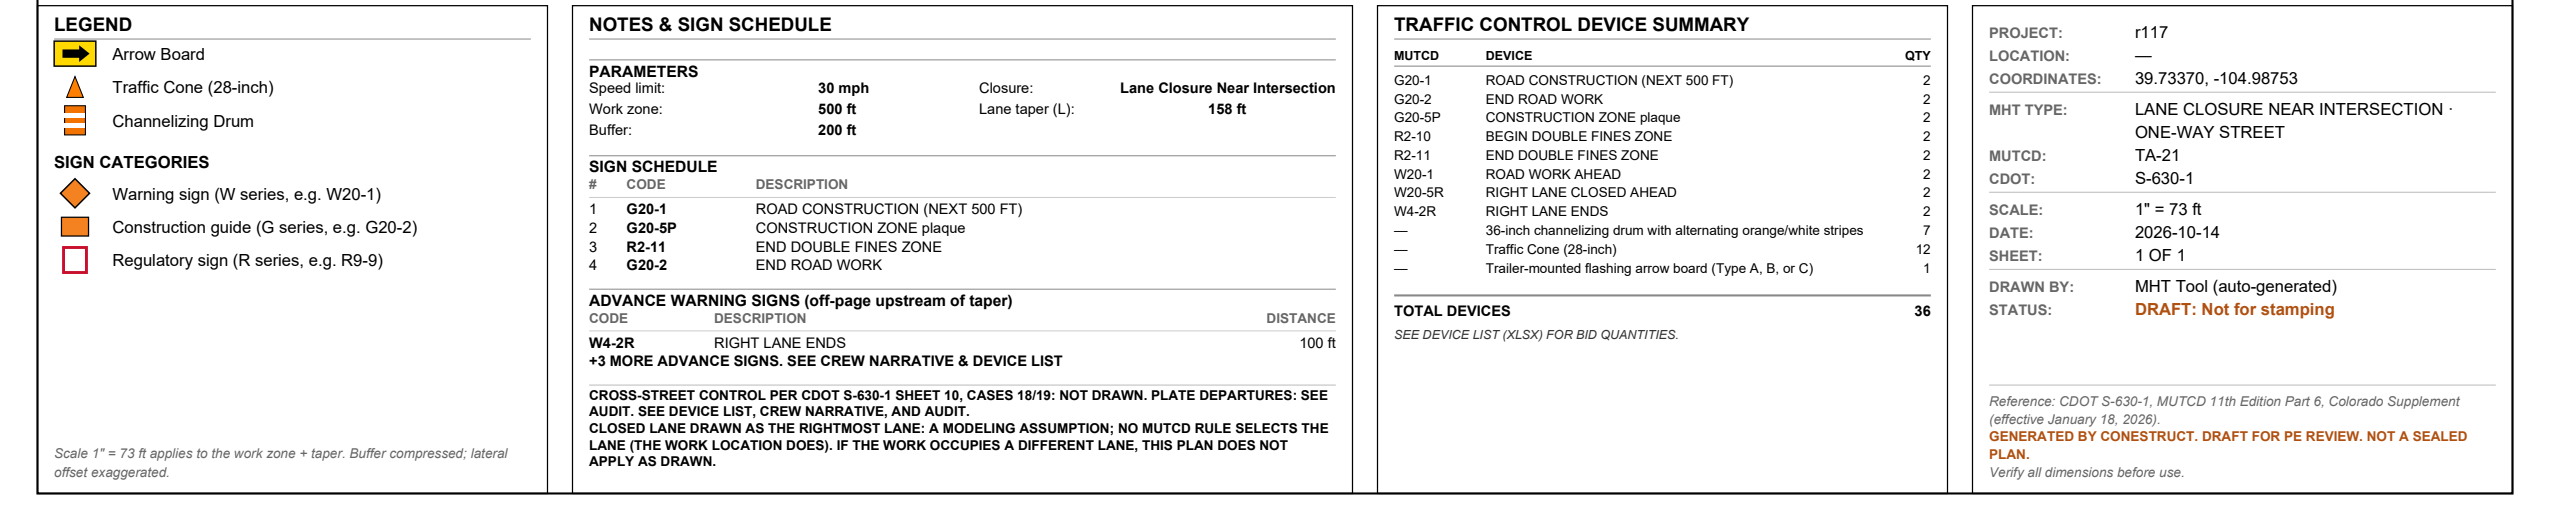
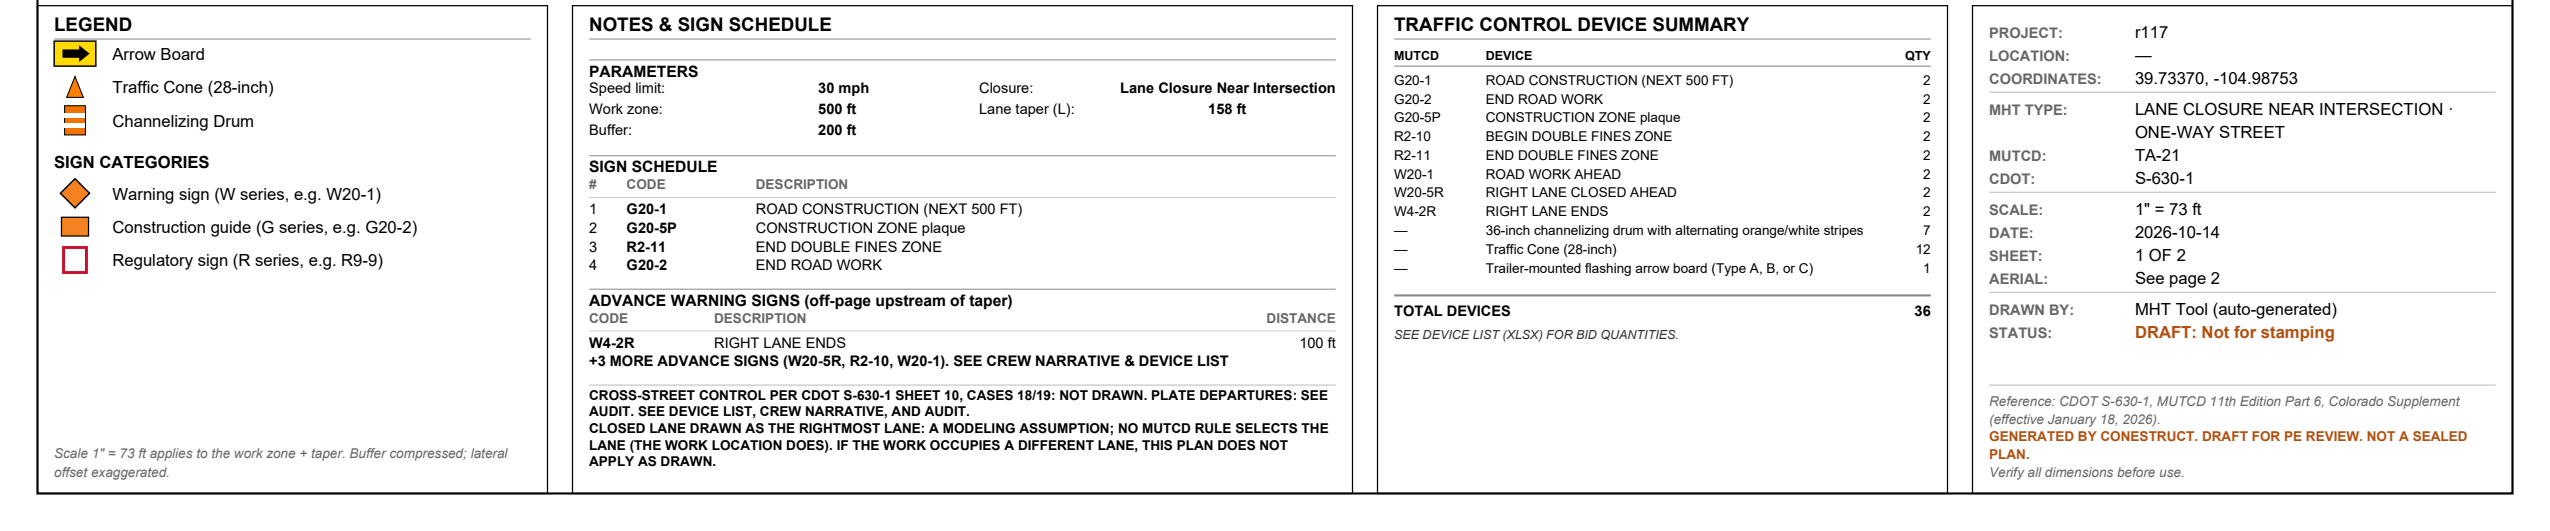
fix(#235): the +N MORE ADVANCE SIGNS line names the cut codes in table order (the NI N Broadway sheet names all 4 again; all-cut line stays the fallback); before/after bands re-rendered with the aerial page as production does (AERIAL row clear of the trailer)

Changed region(s): [[0.8365, 0.5122, 0.9294, 0.6328], [0.3098, 0.6629, 0.4957, 0.693], [0.7745, 0.5122, 0.8055, 0.6328]]

diff --git a/validation-artifacts/committed/issue-235-surface-d/band235.py b/validation-artifacts/committed/issue-235-surface-d/band235.py
@@ -1,0 +1,82 @@
+"""#235 (R150 B): a plan's page-1 lower band from a given checkout, rendered
+the way production renders it: with the aerial page, so the title block
+carries "SHEET: 1 OF 2" and the AERIAL row.
+
+    python band235.py <repo root> <env file> <ni|broadway> <out.png>
+
+<env file> supplies MAPBOX_TOKEN (loaded into this process only, never
+printed).  ni: tests/test_r117_pdf_notes.py's near-intersection N Broadway
+body (one-way).  broadway: tests/fixtures/pdf_worst_case/broadway-left.json.
+Prints the AERIAL row's clearance above the trailer's hairline when the
+checkout draws one.
+"""
+
+from __future__ import annotations
+
+import io
+import json
+import os
+import sys
+from pathlib import Path
+
+ROOT = Path(sys.argv[1]).resolve()
+ENV = Path(sys.argv[2]).resolve()
+CASE = sys.argv[3]
+OUT = Path(sys.argv[4]).resolve()
+sys.dont_write_bytecode = True
+os.chdir(ROOT)
+sys.path.insert(0, str(ROOT))
+os.environ.setdefault("RENDER_API_SECRET", "test-secret-do-not-deploy")
+
+from src._dotenv import load_dotenv  # noqa: E402
+
+load_dotenv(ENV)
+
+import pypdfium2 as pdfium  # noqa: E402
+from fastapi.testclient import TestClient  # noqa: E402
+
+from src.api.render_api import app  # noqa: E402
+from src.rendering import plan_sheet as ps  # noqa: E402
+from tests.test_pdf_containment import _words, measure_containment  # noqa: E402
+
+if CASE == "ni":
+    import tests.test_r117_pdf_notes as t
+
+    pdf = t._pdf({**t.BROADWAY, "carriageway": t.ONE_WAY})
+else:
+    scenario = json.loads(
+        (ROOT / "tests" / "fixtures" / "pdf_worst_case" / "broadway-left.json").read_text(
+            encoding="utf-8"
+        )
+    )["scenario"]
+    r = TestClient(app).post(
+        "/render/pdf", json=scenario, headers={"Authorization": "Bearer test-secret-do-not-deploy"}
+    )
+    assert r.status_code == 200, r.text[:300]
+    pdf = r.content
+
+doc = pdfium.PdfDocument(io.BytesIO(pdf))
+pages = len(doc)
+img = doc[0].render(scale=150 / 72).to_pil()
+doc.close()
+top = int((ps.PAGE_H - ps.FOOTER_H - 4) * 150 / 72)
+img.crop((0, top, img.width, img.height)).save(OUT)
+
+tmp = OUT.with_suffix(".pdf")
+tmp.write_bytes(pdf)
+words = _words(str(tmp))
+counts = {k: len(v) for k, v in measure_containment(str(tmp)).items()}
+tmp.unlink()
+print(f"{CASE}: pages={pages} containment={counts}")
+aerial = [w for w in words if w[4] == "AERIAL:"]
+if aerial and hasattr(ps, "TITLE_BLOCK_TRAILER_PITCH"):
+    rule = ps.FOOTER_BOX_Y + ps.TITLE_BLOCK_PAD + ps.TITLE_BLOCK_TRAILER_PITCH * 4 + 10
+    row = [w for w in words if abs(w[1] - aerial[0][1]) < 1.0]
+    bottom = min(w[1] for w in row)
+    print(f"  AERIAL row bottom {bottom:.1f} pt, trailer hairline {rule:.1f} pt, clear by {bottom - rule:.1f} pt")
+    status = [w for w in words if w[4] == "STATUS:" and w[0] > ps.PAGE_W / 2]
+    srow = [w for w in words if abs(w[1] - status[0][1]) < 1.0]
+    sb = min(w[1] for w in srow)
+    print(f"  STATUS row (last) bottom {sb:.1f} pt, clear of the hairline by {sb - rule:.1f} pt")
+elif aerial:
+    print("  AERIAL row present (this checkout has no title-block trailer)")

diff --git a/src/rendering/plan_sheet.py b/src/rendering/plan_sheet.py
@@ -3612,16 +3612,27 @@ def _draw_notes(
             _draw_advance_table_one_column(cv, capped_advance, x, x_right, y, layout, column_header)
         if advance_cap < len(advance):
             # #216: the full advance series lives in the crew narrative
-            # and the device list — the cut names it (rule 10).
+            # and the device list — the cut names it (rule 10).  #235
+            # (Ryan, 2026-10-14): it names the cut codes too, in table
+            # order; when the longer line can't fit, the caller's cut loop
+            # keeps cutting until the all-cut line above prints instead.
+            cut_codes = list(
+                dict.fromkeys(
+                    code for code, _d, _s in advance[advance_cap:] if code and code != "—"
+                )
+            )
+            named = f" ({', '.join(cut_codes)})" if cut_codes else ""
+            more_text = (
+                f"+{len(advance) - advance_cap} MORE ADVANCE SIGNS{named}. "
+                "SEE CREW NARRATIVE & DEVICE LIST"
+            )
             cv.setFillColor(colors.black)
             cv.setFont("Helvetica-Bold", 7)
-            cv.drawString(
-                x,
-                y[0],
-                f"+{len(advance) - advance_cap} MORE ADVANCE SIGNS. "
-                "SEE CREW NARRATIVE & DEVICE LIST",
-            )
-            y[0] -= layout.row_pitch
+            for line in _wrap_to_width(
+                cv, more_text, "Helvetica-Bold", 7, x_right - x, max_lines=3
+            ):
+                cv.drawString(x, y[0], line)
+                y[0] -= layout.row_pitch
         return _finish(cv, y)
 
     def _finish(cv: canvas.Canvas, y: list[float]) -> float:

diff --git a/tests/test_plan_sheet_footer_235.py b/tests/test_plan_sheet_footer_235.py
@@ -77,6 +77,25 @@ def test_the_broadway_plan_lists_all_five_advance_signs(client: TestClient, tmp_
     assert counts == {"edge": 0, "box_cross": 0, "collisions": 0}
 
 
+def test_every_cut_line_names_its_codes(client: TestClient, tmp_path: Path) -> None:
+    """Ryan 2026-10-14: any "+N MORE ADVANCE SIGNS" line names the cut
+    codes in parentheses.  Checked on every containment fixture."""
+    import pypdfium2 as pdfium
+
+    from tests.test_pdf_containment import BASELINE, FIXTURE_DIR
+
+    seen = 0
+    for name in sorted(BASELINE):
+        body = json.loads((FIXTURE_DIR / f"{name}.json").read_text(encoding="utf-8"))
+        pdf = _render(client, tmp_path, body["scenario"], name)
+        doc = pdfium.PdfDocument(str(pdf))
+        flat = " ".join(doc[0].get_textpage().get_text_range().split())
+        doc.close()
+        assert flat.count("MORE ADVANCE SIGNS") == flat.count("MORE ADVANCE SIGNS ("), name
+        seen += flat.count("MORE ADVANCE SIGNS (")
+    assert seen >= 2  # adv-flagger and adv-shoulder print a cut line today
+
+
 def test_typical_title_blocks_keep_the_11pt_pitch() -> None:
     top = ps.FOOTER_BOX_Y + ps.FOOTER_BOX_H
     rule = ps.FOOTER_BOX_Y + ps.TITLE_BLOCK_PAD + ps.TITLE_BLOCK_TRAILER_PITCH * 4 + 10

diff --git a/tests/test_approach_speed_guess.py b/tests/test_approach_speed_guess.py
@@ -275,11 +275,21 @@ def test_the_notes_print_one_line_and_keep_every_schedule_row(
     # R117 Q3a's all-cut line: with a guessed-speed note printing, every
     # advance row is cut and one line names them; with no note (#235's
     # freed room) the first row fits and the table prints instead.
+    # Either way the sheet names all 4 codes (Ryan, 2026-10-14): the cut
+    # line names the cut codes; when it can't fit beside a kept row, the
+    # all-cut line names every code instead.
     if line is not None:
-        assert "ADVANCE SIGNS OFF-PAGE (" in flat
+        assert (
+            "4 ADVANCE SIGNS OFF-PAGE (W4-2R, W20-5R, R2-10, W20-1). "
+            "SEE CREW NARRATIVE & DEVICE LIST" in flat
+        )
+        assert "MORE ADVANCE SIGNS" not in flat
     else:
         assert "ADVANCE SIGNS OFF-PAGE (" not in flat
-        assert "ADVANCE WARNING SIGNS" in flat
+        assert "W4-2R RIGHT LANE ENDS" in flat
+        assert (
+            "+3 MORE ADVANCE SIGNS (W20-5R, R2-10, W20-1). SEE CREW NARRATIVE & DEVICE LIST" in flat
+        )
 
 
 def _parse(b: dict[str, Any]) -> Any:

diff --git a/tests/test_r117_pdf_notes.py b/tests/test_r117_pdf_notes.py
@@ -216,7 +216,10 @@ def test_the_near_intersection_box_reads_clean(carriageway: dict | None) -> None
     # names the rest.  The all-cut line keeps its coverage on the denser
     # speed-guessed sheets (test_approach_speed_guess).
     assert _advance_rows(lines) == 1
-    assert "+3 MORE ADVANCE SIGNS. SEE CREW NARRATIVE & DEVICE LIST" in flat
+    # Ryan 2026-10-14: the cut line names the cut codes, in table order, so
+    # the sheet names all 4 (W4-2R in its row) as it did before #235.
+    assert "+3 MORE ADVANCE SIGNS (W20-5R, R2-10, W20-1). SEE CREW NARRATIVE & DEVICE LIST" in flat
+    assert "W4-2R" in flat
     assert "ADVANCE SIGNS OFF-PAGE (" not in flat
     # No doubled column header.
     assert "DISTANCE CODE" not in flat

diff --git a/validation-artifacts/committed/issue-235-surface-d/outcome.md b/validation-artifacts/committed/issue-235-surface-d/outcome.md
@@ -85,3 +85,51 @@ New tests are in `tests/test_plan_sheet_footer_235.py` (4 tests):
 - broadway-left lists all 5 advance signs with containment 0;
 - the pitch steps at 13, 14 and 18 lines;
 - the worst-case title block clears the hairline.
+
+## Addendum outcome (Ryan, 2026-10-14, before ship)
+
+Prediction addendum: `prediction.md` (`28fe0d2`).
+
+### 1. The cut line names the cut codes (built as predicted)
+
+`_draw_notes`: the "+N MORE ADVANCE SIGNS" line names `advance[advance_cap:]`'s codes in table order, with "—"
+and duplicates dropped. It is wrapped at 7 pt bold, up to 3 lines. When it can't fit beside a kept row, the
+existing cut loop falls through to the all-cut line.
+
+| sheet | prints |
+|---|---|
+| near-intersection N Broadway (one-way and two-way) | `W4-2R RIGHT LANE ENDS 100 ft`, then "+3 MORE ADVANCE SIGNS (W20-5R, R2-10, W20-1). SEE CREW NARRATIVE & DEVICE LIST": all 4 codes named |
+| the same plan with a guessed-speed note (road / cross / both) | the fallback: "4 ADVANCE SIGNS OFF-PAGE (W4-2R, W20-5R, R2-10, W20-1). SEE CREW NARRATIVE & DEVICE LIST" |
+| adv-flagger | "+4 MORE ADVANCE SIGNS (W3-4, W20-4, W20-1, S1-1)." |
+| adv-shoulder | "+4 MORE ADVANCE SIGNS (W20-2, W20-1, W3-5, S1-1)." |
+| adv-near-intersection | the fallback: "5 ADVANCE SIGNS OFF-PAGE (W4-2R, W20-5R, R2-10, W20-1, S1-1)" |
+| N Broadway SB (broadway-left) | nothing cut: 5 of 5 |
+
+These are pinned by:
+- `test_r117_pdf_notes.py`, the near-intersection exact string;
+- `test_approach_speed_guess.py`, both exact strings: the cut line when nothing is guessed, the all-cut fallback
+  when a speed is guessed;
+- `test_plan_sheet_footer_235.py::test_every_cut_line_names_its_codes`: every "MORE ADVANCE SIGNS" on the 13
+  fixtures is followed by "(", and at least 2 such lines print.
+
+Containment is 0 / 0 / 0 on the 13 fixtures and the 4 sample plans (`built-containment.json`, re-measured).
+
+### 2. Why the old before/after title blocks differed
+
+- **The cause.** `ni-before` was rendered from the main checkout. Its gitignored `.env` holds a Mapbox token, and
+  `plan_sheet.py` loads `.env` on import. So the aerial page rendered: "SHEET: 1 OF 2" plus an "AERIAL: See page 2"
+  row.
+- The worktree has no `.env`, so the old `ni-after` skipped page 2: "1 OF 1", no AERIAL row.
+- The code did not cause the difference.
+- **The re-render.** `band235.py` loads the main checkout's `.env` into the process (the token is never
+  printed) for both sides, as production carries it. Both sides render 2 pages.
+
+| image | pages | containment | AERIAL row above the trailer's hairline | last row (STATUS) above it |
+|---|---|---|---|---|
+| `ni-before-band.png` (`a4b53ec`) | 2 | 0 / 0 / 0 | (no trailer in the title block) | |
+| `ni-after-band.png` | 2 | 0 / 0 / 0 | 48.4 pt clear | 21.5 pt clear |
+| `broadway-before-band.png` (`a4b53ec`) | 2 | 0 / 0 / 0 | (no trailer in the title block) | |
+| `broadway-after-band.png` | 2 | 0 / 0 / 0 | 37.4 pt clear | 10.5 pt clear |
+
+`ni235.py` is replaced by `band235.py`. `built-band.png` and the mockups render without the aerial page, as
+the old pair did (no `.env` in the worktree): their title blocks read "1 OF 1" with no AERIAL row.
